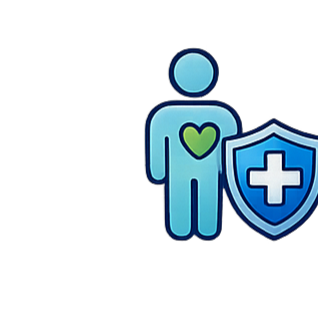
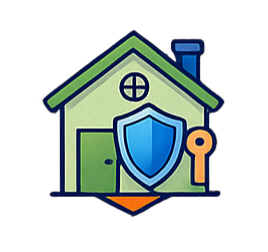
KJ

diff --git a/BackEnd/src/services/tableExtractionService.ts b/BackEnd/src/services/tableExtractionService.ts
@@ -140,9 +140,9 @@ Analyse cette image de page PDF et extrait la matrice complète garanties × for
 ═══ ÉTAPE 1 — LÉGENDE (CRITIQUE — faire AVANT toute extraction) ═══
 Cherche PARTOUT sur la page une légende, un encadré "Légende", "Symboles", une note de bas de page ou un texte explicatif des symboles.
 Exemples fréquents :
-- "● = garanti" / "○ = en option" / "— = non garanti"
+- "● = garanti" / "○ = en option" / "— = non garanti"  
 - "G = garanti" / "O = option" / "E = exclu"
-- Icones colorées, symboles géométriques, chiffres
+- Icones colorées, symboles géométriques, chiffres codés
 
 Reporte la légende dans le champ "legend" : { "symbole_brut": "included|excluded|optional" }
 Si aucune légende trouvée : "legend": null
@@ -152,23 +152,38 @@ Pour chaque cellule, APPLIQUE la légende pour déterminer le statut et normalis
 - Inclus (légende = "garanti"/"inclus"/"oui") → mettre "✓"
 - Exclu (légende = "non garanti"/"exclu"/"non") → mettre "✗"
 - Option (légende = "en option"/"sur option"/"optionnel") → mettre "○"
-- Vide / néant / s.o. → mettre ""
+- Cellule VIDE (vraiment vide, rien du tout) → mettre ""
 - Montant ou texte descriptif → mettre le texte exact ("1 500 €", "Jusqu'à 3000 €")
 
-Si PAS de légende, décodage standard :
-- ✓ ✔ ● • √ ■ Oui Inclus Garanti → "✓"
-- ✗ ✘ × x X - – — Non Exclu Néant □ → "✗"
-- ○ ◯ Option En option En sus △ → "○"
+Si PAS de légende, applique ce décodage standard :
+- ✓ ✔ ● • √ ■ ▪ ◆ "Oui" "Inclus" "Garanti" "Compris" → "✓"
+- ✗ ✘ × "Non" "Exclu" "Néant" □ ▫ → "✗"
+- X ou x seul (lettre, pas symbole) → "✗"
+- – — - (tiret seul) → "✗"  
+- ○ ◯ "Option" "En option" "En sus" △ → "○"
+
+⚠ RÈGLES IMPORTANTES :
+1. LÉGENDE = PRIORITÉ ABSOLUE sur tout autre interprétation.
+2. Une cellule VIDE (pas de symbole) ≠ "exclu" : mets "" (chaîne vide).
+3. Les TITRES DE SECTION (lignes en gras/italique sans symboles dans les colonnes) : inclure le titre comme garantie mais mettre "" dans toutes les cellules.
+4. PAGE DE CONTINUATION : si les en-têtes de colonnes ne sont pas visibles sur cette page, déduis le nom des formules depuis le contexte visuel (alignement identique à d'autres pages).
+5. Identifie TOUTES les lignes (y compris sous-garanties en retrait ou à la ligne suivante).
+6. Identifie TOUTES les colonnes de formules.
+7. Symbole inconnu non présent dans la légende → mets le symbole exact tel quel.
 
 ═══ FORMAT JSON STRICT (aucun autre texte) ═══
 {
   "has_table": true,
   "legend": { "●": "included", "○": "optional", "—": "excluded" },
-  "headers": ["Garanties", "FORMULE 1", "FORMULE 2", ...],
+  "headers": ["Garanties", "FORMULE 1", "FORMULE 2", "FORMULE 3"],
   "rows": [
     {
       "guarantee": "Responsabilité civile",
-      "formulas": { "formule_1": "✓", "formule_2": "✓" }
+      "formulas": { "formule_1": "✓", "formule_2": "✓", "formule_3": "✓" }
+    },
+    {
+      "guarantee": "Assistance dépannage (serrurerie, plomberie)",
+      "formulas": { "formule_1": "✓", "formule_2": "✓", "formule_3": "✓" }
     }
   ],
   "confidence": 0.95
@@ -177,13 +192,6 @@ Si PAS de légende, décodage standard :
 CLÉS DE FORMULES en snake_case :
 - Espaces → "_", "+" → "_plus", majuscules → minuscules, accents supprimés
 - "Formule 2" → "formule_2", "TIERS ESSENTIEL+" → "tiers_essentiel_plus"
-
-RÈGLES :
-1. LÉGENDE = PRIORITÉ ABSOLUE.
-2. Identifie TOUTES les lignes, y compris sous-garanties en retrait.
-3. Identifie TOUTES les colonnes de formules.
-4. Lignes multi-lignes : concatène avec " - ".
-5. Symbole inconnu hors légende : mettre le contenu exact.
 
 Si aucun tableau visible : {"has_table": false, "confidence": 1.0}
 
@@ -221,10 +229,21 @@ RÉPONDS UNIQUEMENT AVEC LE JSON.`;
       legend = parsed.legend;
       console.log(`📖 Légende détectée: ${JSON.stringify(legend)}`);
     }
+
+    // Log complet de la structure extraite pour diagnostic
+    const headers = parsed.headers || [];
+    const rows = parsed.rows || [];
+    console.log(`📊 Tableau Gemini: ${headers.length} colonnes × ${rows.length} lignes`);
+    console.log(`   En-têtes: [${headers.join(' | ')}]`);
+    rows.slice(0, 5).forEach((r: any) => {
+      const cells = Object.entries(r.formulas || {}).map(([k, v]) => `${k}="${v}"`).join(', ');
+      console.log(`   • "${r.guarantee}" → {${cells}}`);
+    });
+    if (rows.length > 5) console.log(`   ... (${rows.length - 5} lignes supplémentaires)`);
     
     return {
-      headers: parsed.headers || [],
-      rows: parsed.rows || [],
+      headers,
+      rows,
       confidence: parsed.confidence || 0.5,
       legend
     };
@@ -276,6 +295,11 @@ export function tableToFacts(
       }
 
       const coverageStatus = parseStatus(symbol, table.legend);
+
+      // Log détaillé pour diagnostiquer le mapping symbole → statut
+      if (coverageStatus === 'excluded') {
+        console.log(`   ⚠  [tableToFacts] "${guaranteeLabel}" × "${formulaLabel}" : symbole="${symbol}" → ${coverageStatus}`);
+      }
 
       facts.push({
         guarantee_key: guaranteeKey,

diff --git a/BackEnd/src/routes/ai.ts b/BackEnd/src/routes/ai.ts
@@ -1,5 +1,6 @@
 import { Router } from 'express';
 import { sendMessageToAssistant, sendMessageToAssistantStream, searchPolicyInfo, detectDuplicates, parsePoliciesFromText, indexCgDocument, generateShareableReport, resolveCoverageFacts, getCoverageAnalysis } from '../services/geminiService';
+import { extractTableFromPageImage } from '../services/tableExtractionService';
 import { storage } from '../storage';
 import { query as dbQuery } from '../db';
 import { cacheGet, cacheSet, makeCacheKey } from '../services/cacheService';
@@ -267,6 +268,71 @@ router.get('/debug-coverage', async (req, res) => {
     });
   } catch (err: any) {
     console.error('❌ debug-coverage error:', err);
+    res.status(500).json({ error: err?.message || 'Erreur interne' });
+  }
+});
+
+// ─────────────────────────────────────────────────────────────────────────────
+// DEBUG: relancer Vision sur une page spécifique et voir le JSON brut
+// GET /api/ai/debug-extract-page?cgId=536&page=5
+// ─────────────────────────────────────────────────────────────────────────────
+router.get('/debug-extract-page', async (req, res) => {
+  const cgId   = parseInt(req.query.cgId as string);
+  const pageNo = parseInt(req.query.page as string);
+  if (isNaN(cgId) || isNaN(pageNo)) return res.status(400).json({ error: 'cgId et page (numéros) requis' });
+
+  try {
+    // 1. Récupérer l'image de la page depuis la DB
+    const pageRow = await dbQuery(
+      `SELECT page_image_base64, content_text, has_table, table_json
+       FROM central_cg_pages WHERE central_cg_id = $1 AND page_number = $2 LIMIT 1`,
+      [cgId, pageNo]
+    );
+    if (pageRow.rows.length === 0) {
+      return res.status(404).json({ error: `Page ${pageNo} introuvable pour CG ${cgId}. Vectoriser d'abord.` });
+    }
+    const { page_image_base64, content_text, has_table, table_json } = pageRow.rows[0];
+
+    // 2. Récupérer insurer_code et insurance_type_code
+    const cgRow = await dbQuery(
+      `SELECT insurer_code, insurance_type_code FROM central_cg WHERE id = $1`,
+      [cgId]
+    );
+    const insurer_code     = cgRow.rows[0]?.insurer_code ?? 'unknown';
+    const insurance_type   = cgRow.rows[0]?.insurance_type_code ?? 'unknown';
+
+    // 3. Relancer Vision en direct sur cette page
+    let freshExtraction = null;
+    let extractionError = null;
+    if (page_image_base64) {
+      try {
+        freshExtraction = await extractTableFromPageImage(page_image_base64, insurer_code, insurance_type);
+      } catch (e: any) {
+        extractionError = e?.message || 'Erreur Vision';
+      }
+    } else {
+      extractionError = 'image non disponible en DB (page pas encore vectorisée avec images)';
+    }
+
+    // 4. Coverage_facts actuellement en DB pour cette page
+    const existingFacts = await dbQuery(
+      `SELECT guarantee_label, guarantee_key, formula_label, formula_key, coverage_status
+       FROM coverage_facts WHERE central_cg_id = $1 ORDER BY guarantee_key, formula_key`,
+      [cgId]
+    );
+
+    res.json({
+      cgId, pageNo, insurer_code, insurance_type,
+      textPreview: (content_text || '').substring(0, 500),
+      hasTableInDB: has_table,
+      tableJsonInDB: table_json,
+      freshVisionExtraction: freshExtraction,
+      extractionError,
+      existingFactsCount: existingFacts.rows.length,
+      existingFacts: existingFacts.rows
+    });
+  } catch (err: any) {
+    console.error('❌ debug-extract-page error:', err);
     res.status(500).json({ error: err?.message || 'Erreur interne' });
   }
 });
